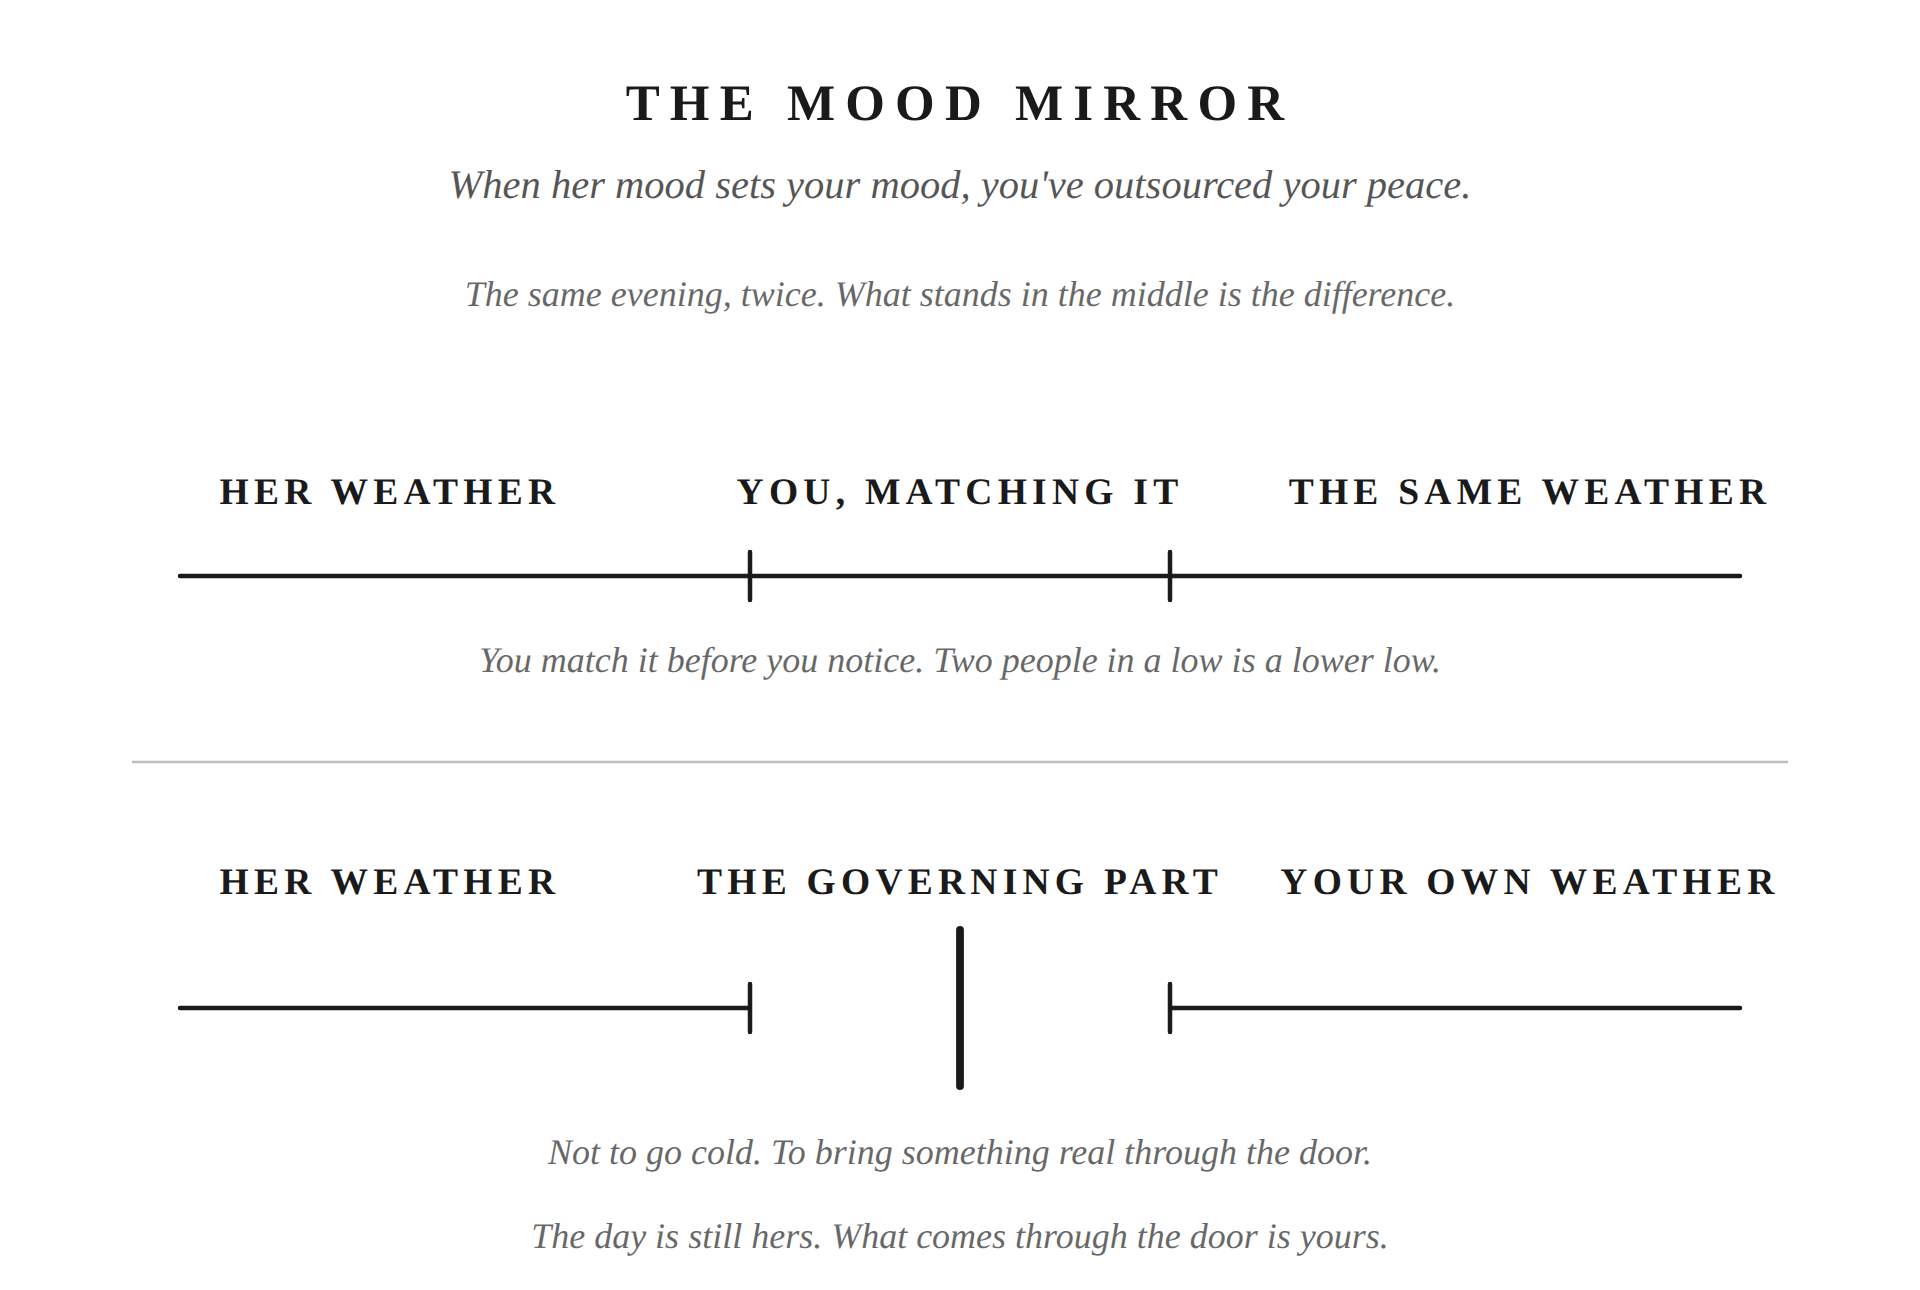
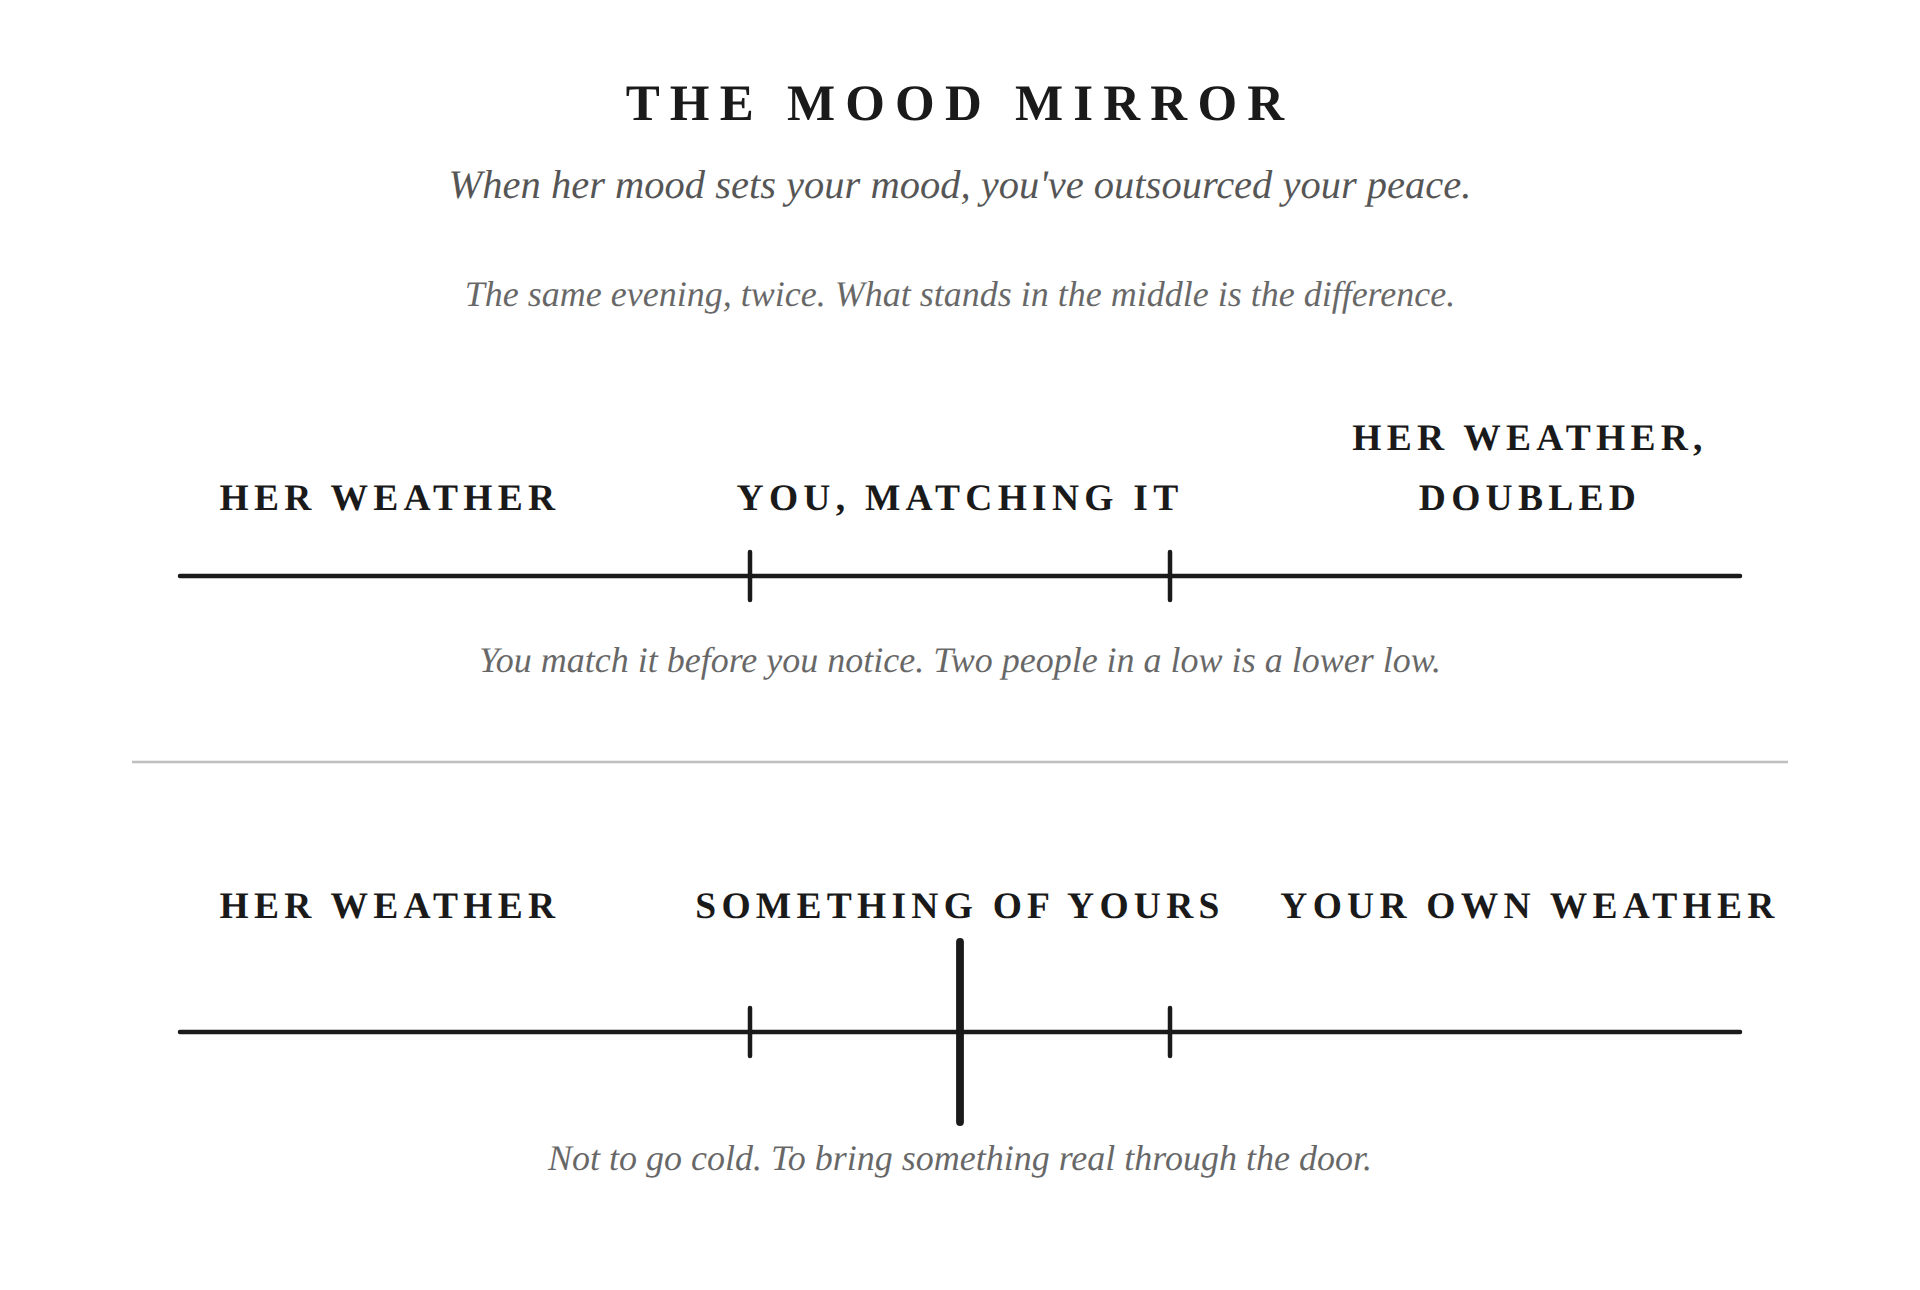
Round 4: Ch2 edited from the standalone sweep, checked (no FAIL rows); Ch6 passes the Panel's cold read
Claude-Session: https://claude.ai/code/session_01AGHGLRftgBTeqLnoAYhBbF

diff --git a/runs/ch02/plate-notes.md b/runs/ch02/plate-notes.md
@@ -140,3 +140,62 @@ values where row two breaks, which is what makes the comparison land.
 1. **The guard line as a gloss.** If you would rather the plate carry only the
    panel's single closing line, deleting *"Not to go cold..."* is one line and
    nothing else moves.
+
+## Round 4, edits from the standalone sweep (2026-09-20 21:50)
+
+Brief: `runs/design/2026-09-20-plate-standalone-sweep.md`, section "FAIL 02 — The
+Mood Mirror". All four edits applied, no new concept.
+
+1. **Row two's line is closed.** The break Round 2 opened is gone: row two is now
+   one continuous `M60 344h520`, the same span as row one, with the same two ticks
+   at x=250 and x=390. The governing stroke at x=320 runs `v314..374`, straight
+   **through** the line rather than sitting in a gap in it. The panel's cold read
+   was "disconnect from her, go cold", which the closing line then had to deny in
+   words; with the line closed the drawing no longer argues against its own caption.
+2. **THE GOVERNING PART is now SOMETHING OF YOURS.** Faculty language, even in
+   English, stops a reader who has not read the chapter.
+3. **THE SAME WEATHER is now HER WEATHER, DOUBLED**, set on two lines (y=150, y=170)
+   at the same x=510 column centre because one line of twenty letter-spaced caps
+   overruns the right margin band. Row one now reads as loss, not symmetry.
+4. **Second footer cut.** Two footer lines existed; "The day is still hers. What
+   comes through the door is yours." (y=416) is deleted and "Not to go cold. To
+   bring something real through the door." is the only closing line. Row two was
+   nudged down 8px (labels 306, line 344, footer 390) to take up the slack.
+
+**Checker output, verbatim:**
+
+```
+$ python3 scripts/plate_check.py runs/ch02/plate.svg --chapter 2
+
+runs/ch02/plate.svg
+  [ ok ] charset     valid UTF-8, no mojibake
+  [ ok ] geometry    no margin or collision rows
+  [ ok ] anchor-attr anchors set in classes or inline styles only
+  [ ok ] em-dash     none
+  [ ok ] digits      none
+  [ ok ] canvas      640x430
+  [ ok ] title       title 'THE MOOD MIRROR' / aria-label 'The Mood Mirror' vs Mechanism 'The Mood Mirror'
+  [WARN] grounded    no three-word run of these appears in the chapter, its distillation or plate-brief.md: 'The same evening, twice. What stands in ', 'YOU, MATCHING IT', 'SOMETHING OF YOURS', 'YOUR OWN WEATHER'
+  [ ok ] captions    4 italic lines against a cap of 9 (7 labels + subtitle + closing line)
+  [ ok ] alignment   12 centred texts on the axis or a shared column; 4 drawing blocks centred or mirrored
+  [ ok ] ink         no rendered ink inside the 40px margin bands (dark px {'left': 0, 'right': 0, 'top': 0, 'bottom': 0})
+```
+
+No FAIL rows. The `grounded` WARN is the sweep's own wording plus two labels held
+from earlier rounds; the chapter has "her weather", "his own weather", "the
+governing part", and "To bring something real through the door", so every label is
+a phrase the chapter could have written, but "something of yours" and "her weather,
+doubled" are not verbatim in it. Author's call if he wants them chapter-exact.
+
+**What the render showed.** `runs/ch02/pdf/plate.png`. The bottom line reads
+continuous at a glance: the eye crosses row two without a stop, and the heavy
+upright at x=320 reads as one thing planted in the line rather than as a wall
+between her and you. The two rows now differ by exactly one added object, which is
+the comparison the plate is making. Ten-second read at phone width: her weather in,
+her weather doubled out; her weather in, something of yours in the middle, your own
+weather out. That is the Conversation sentence.
+
+**For the author to rule on.** Row two keeps the two plain ticks at x=250 and x=390
+so it is visibly the same line as row one. They cluster near the heavy stroke and
+could be read as noise; cutting them would make the stroke lonelier but would break
+the parallel that carries "the same evening, twice".

diff --git a/runs/ch06/plate-read.md b/runs/ch06/plate-read.md
@@ -1,0 +1,30 @@
+# Ch06 Plate — Standalone Read (stage 5)
+
+Desk: Reader Panel · 2026-09-20 22:00 UTC · `runs/ch06/pdf/plate.png`
+
+## Cold, before the distillation
+
+Married man, phone, ten seconds:
+
+> "The week of work I actually did is solid and real; all she can see is
+> tonight — and the second I say that out loud, I've started the scorekeeping."
+
+**Skeptic's misreading (the one the drawing invites):** the empty dashed
+TONIGHT box read as *her* column — "she sees nothing / does nothing tonight" —
+turning two views of one man's week into a two-person comparison. Held back by
+both captions being about him and his view of her, and by equal bar lengths
+(same work, different visibility).
+
+**Self-pity misread (solid = her work, "I get no credit"):** gone. The solid bar
+is now his week, the subtitle denies the grievance in the first second, and the
+two closing lines convert the tally from proof into the mistake.
+
+## Against the distillation
+
+Conversation sentence: *"Resentment doesn't come from doing too much. It comes
+from being the only one who can see it."*
+
+The cold sentence is that sentence in a stranger's words — visibility, not
+volume, and the reciting is the damage.
+
+**Verdict: PASS.**
